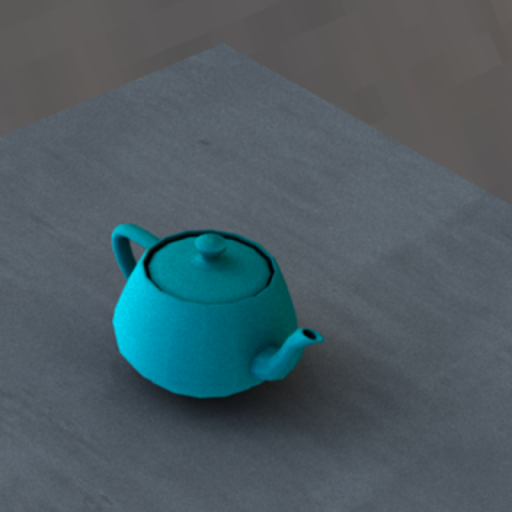
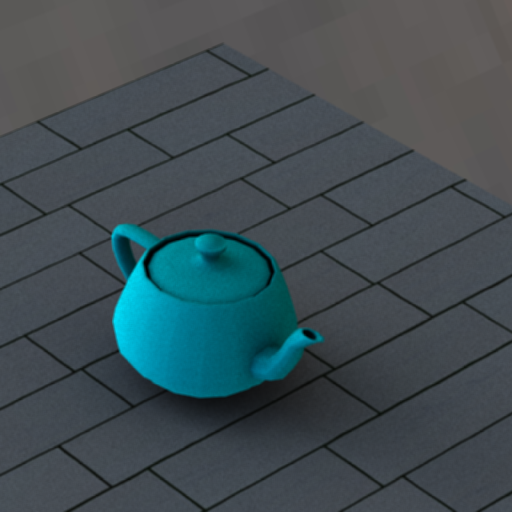
bump mapping! I think?

diff --git a/README.md b/README.md
@@ -5,6 +5,7 @@ Physically Based Rendering - in Julia
 # Sources
 - Based on [Physically Based Rendering: From Theory to Implementation by Matt Pharr, Wenzel Jakob, and Greg Humphreys](https://www.pbr-book.org/)
 - [THIS](https://github.com/pxl-th/Trace.jl) repo has been an invaluable reference.
+- Wonderful texture maps from [LINK](https://3dtextures.me/2021/12/15/stone-floor-006/)
 
 ## PBR Book Overview 
 1) Introduction
@@ -37,7 +38,7 @@ Physically Based Rendering - in Julia
     8.5) Fresnel Incidence BSDFs
     8.6) Fourier Basis BSDFs
 9) Materials
-    9.3) Bump Mapping
+    9.3) Bump Mapping --> SO SLOOOOWWWWW
     9.x) More materials from github
 10) Texture
     10.x) all but constant texture
@@ -60,3 +61,4 @@ Physically Based Rendering - in Julia
 - transform bounding boxes in BVH construction. I think intersect_p() is not working.
 - why does BVH not work when there's only one item. LOL
 - WHAT IS GOING ON WITH LOOKAT TRANSFORM. YIKES?
+

diff --git a/renders/README.md b/renders/README.md
@@ -3,4 +3,5 @@
 2) Adding in an infinite (environmental) light. 100 spp.
 3) Triangle mesh and really simple obj loader implemented. 100spp.
 4) + smoothing of vertex normals. Nice. 100spp.
-5) + concrete image texture + rectanlges + 1,000 ssp.
+5) + stone image texture + rectanlges + 1,000 ssp.
+6) + bump map (albeit slow as hell)
